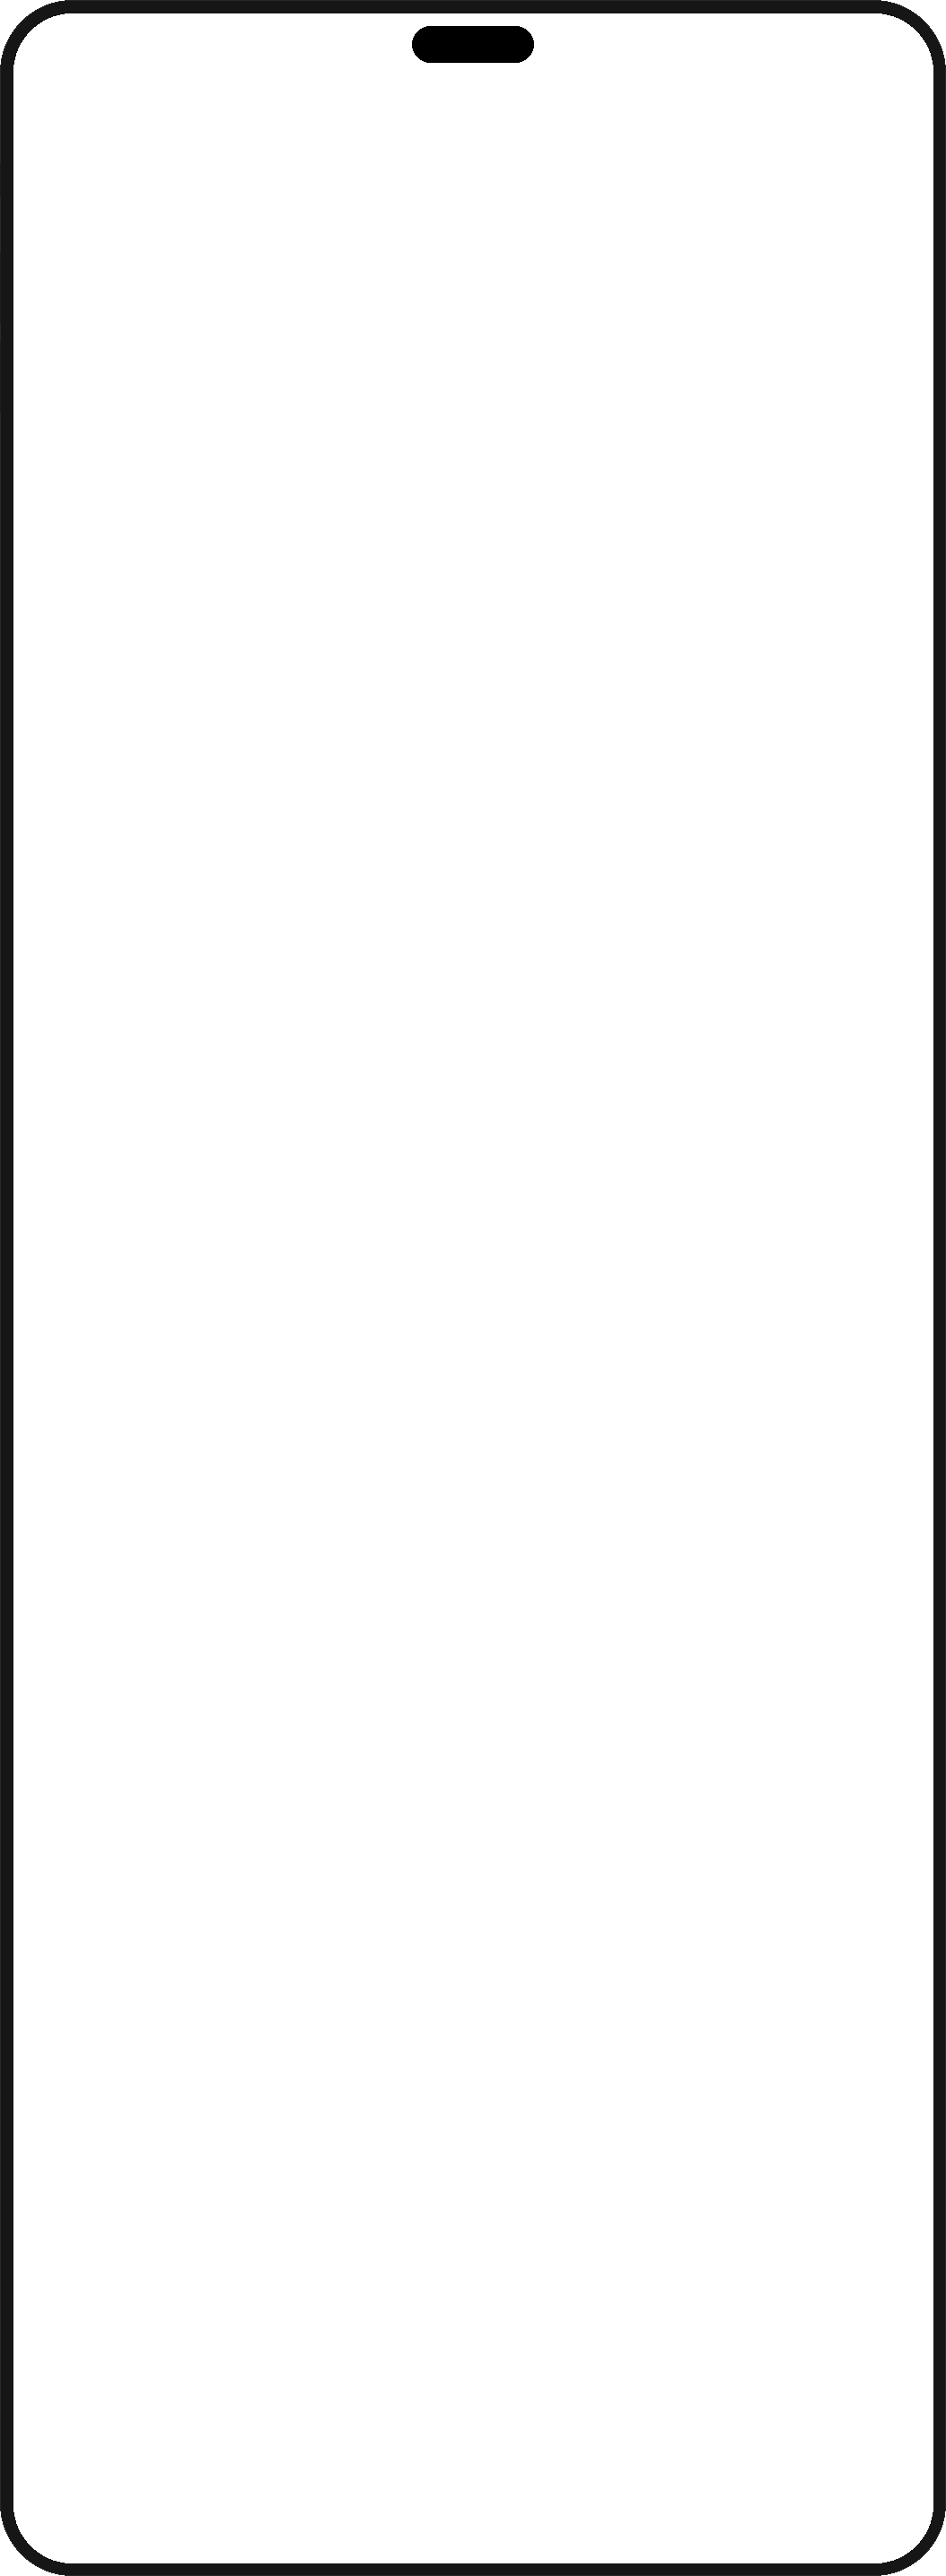
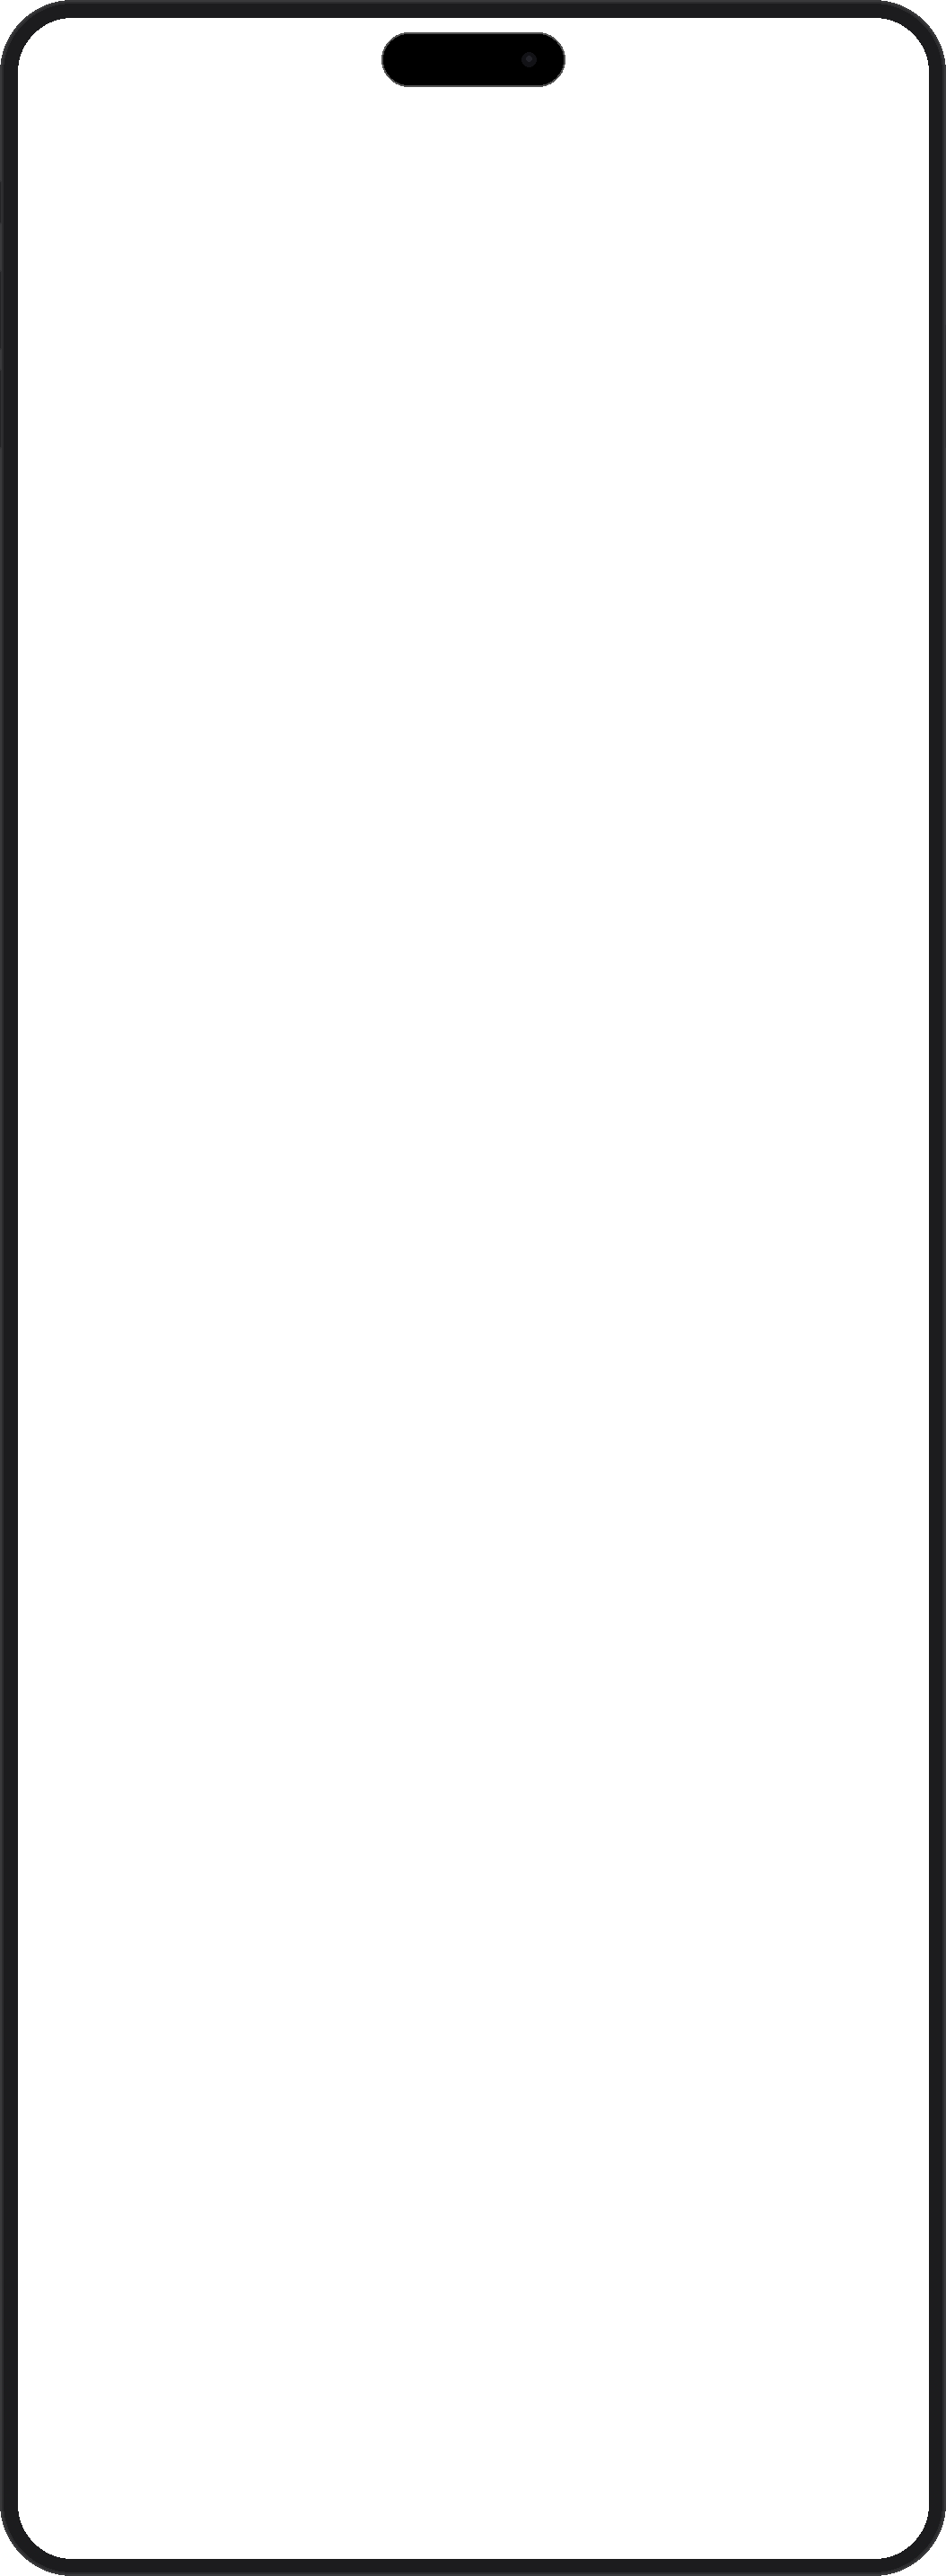
Improve device frames and add font installation to README
- iPhone frame: thicker bezel (20px), 3-layer titanium depth, larger
  Dynamic Island (200x56) with camera lens detail, metallic side buttons
- Android frame: 3-layer depth, subtle punch-hole ring, thicker bezel
- compose.py: updated bezel/corner values to match new frames
- README: added SF Pro Display Black font installation instructions
  with Apple developer fonts download link

diff --git a/generate_frame.py b/generate_frame.py
@@ -10,7 +10,7 @@ compose.py positions these dynamically based on text height.
 """
 
 import os
-from PIL import Image, ImageDraw, ImageChops
+from PIL import Image, ImageDraw, ImageChops, ImageFilter
 
 ASSETS_DIR = os.path.join(os.path.dirname(os.path.abspath(__file__)), "assets")
 
@@ -18,11 +18,11 @@ ASSETS_DIR = os.path.join(os.path.dirname(os.path.abspath(__file__)), "assets")
 IPHONE_W = 1054
 IPHONE_H = 2870
 IPHONE_CORNER_R = 80
-IPHONE_BEZEL = 15
-IPHONE_SCREEN_CORNER_R = 65
-IPHONE_DI_W = 135
-IPHONE_DI_H = 40
-IPHONE_DI_TOP = 14
+IPHONE_BEZEL = 20
+IPHONE_SCREEN_CORNER_R = 60
+IPHONE_DI_W = 200
+IPHONE_DI_H = 56
+IPHONE_DI_TOP = 18
 IPHONE_SCREEN_W = IPHONE_W - 2 * IPHONE_BEZEL
 IPHONE_SCREEN_H = IPHONE_H - 2 * IPHONE_BEZEL
 
@@ -30,10 +30,10 @@ IPHONE_SCREEN_H = IPHONE_H - 2 * IPHONE_BEZEL
 ANDROID_W = 900
 ANDROID_H = 1980
 ANDROID_CORNER_R = 55
-ANDROID_BEZEL = 12
-ANDROID_SCREEN_CORNER_R = 43
+ANDROID_BEZEL = 14
+ANDROID_SCREEN_CORNER_R = 41
 ANDROID_PUNCH_R = 16
-ANDROID_PUNCH_TOP = 18
+ANDROID_PUNCH_TOP = 20
 ANDROID_SCREEN_W = ANDROID_W - 2 * ANDROID_BEZEL
 ANDROID_SCREEN_H = ANDROID_H - 2 * ANDROID_BEZEL
 
@@ -43,19 +43,27 @@ def generate_iphone():
     frame = Image.new("RGBA", (IPHONE_W, IPHONE_H), (0, 0, 0, 0))
     fd = ImageDraw.Draw(frame)
 
-    # Device body — titanium-style outer shell
+    # ── Titanium outer shell — 3-layer depth ────────────────────────
+    # Outermost edge — subtle metallic highlight
     fd.rounded_rectangle(
         [0, 0, IPHONE_W - 1, IPHONE_H - 1],
         radius=IPHONE_CORNER_R,
-        fill=(42, 42, 42, 255),
+        fill=(58, 58, 60, 255),
     )
+    # Mid-layer — titanium body
     fd.rounded_rectangle(
-        [1, 1, IPHONE_W - 2, IPHONE_H - 2],
-        radius=IPHONE_CORNER_R - 1,
-        fill=(22, 22, 22, 255),
+        [2, 2, IPHONE_W - 3, IPHONE_H - 3],
+        radius=IPHONE_CORNER_R - 2,
+        fill=(44, 44, 46, 255),
+    )
+    # Inner edge — darker toward screen
+    fd.rounded_rectangle(
+        [4, 4, IPHONE_W - 5, IPHONE_H - 5],
+        radius=IPHONE_CORNER_R - 4,
+        fill=(28, 28, 30, 255),
     )
 
-    # Screen cutout (transparent)
+    # ── Screen cutout (transparent) ─────────────────────────────────
     screen_x = IPHONE_BEZEL
     screen_y = IPHONE_BEZEL
     cutout = Image.new("L", (IPHONE_W, IPHONE_H), 255)
@@ -66,26 +74,61 @@ def generate_iphone():
     )
     frame.putalpha(ImageChops.multiply(frame.getchannel("A"), cutout))
 
-    # Dynamic Island
+    # ── Dynamic Island — prominent pill with subtle depth ───────────
     di_x = (IPHONE_W - IPHONE_DI_W) // 2
     di_y = screen_y + IPHONE_DI_TOP
-    ImageDraw.Draw(frame).rounded_rectangle(
+    fd2 = ImageDraw.Draw(frame)
+
+    # Outer shadow ring for depth
+    fd2.rounded_rectangle(
+        [di_x - 2, di_y - 2, di_x + IPHONE_DI_W + 2, di_y + IPHONE_DI_H + 2],
+        radius=(IPHONE_DI_H + 4) // 2,
+        fill=(10, 10, 10, 180),
+    )
+    # Main Dynamic Island body
+    fd2.rounded_rectangle(
         [di_x, di_y, di_x + IPHONE_DI_W, di_y + IPHONE_DI_H],
         radius=IPHONE_DI_H // 2,
         fill=(0, 0, 0, 255),
     )
+    # Subtle front camera lens inside (right side of pill)
+    cam_r = 8
+    cam_x = di_x + IPHONE_DI_W - 38
+    cam_y = di_y + IPHONE_DI_H // 2
+    fd2.ellipse(
+        [cam_x - cam_r, cam_y - cam_r, cam_x + cam_r, cam_y + cam_r],
+        fill=(18, 18, 22, 255),
+    )
+    # Camera lens highlight
+    hl_r = 3
+    fd2.ellipse(
+        [cam_x - hl_r, cam_y - hl_r - 1, cam_x + hl_r, cam_y + hl_r - 1],
+        fill=(35, 35, 42, 255),
+    )
 
-    # Side buttons
-    btn_color = (30, 30, 30, 255)
-    fd2 = ImageDraw.Draw(frame)
-    # Power (right)
-    fd2.rounded_rectangle([IPHONE_W, 340, IPHONE_W + 4, 460], radius=2, fill=btn_color)
-    # Volume up (left)
-    fd2.rounded_rectangle([-4, 280, 0, 360], radius=2, fill=btn_color)
-    # Volume down (left)
-    fd2.rounded_rectangle([-4, 380, 0, 460], radius=2, fill=btn_color)
-    # Silent switch (left)
-    fd2.rounded_rectangle([-4, 180, 0, 220], radius=2, fill=btn_color)
+    # ── Side buttons — thicker with metallic look ───────────────────
+    btn_outer = (50, 50, 52, 255)
+    btn_inner = (36, 36, 38, 255)
+
+    # Power button (right side) — larger
+    fd2.rounded_rectangle(
+        [IPHONE_W - 1, 360, IPHONE_W + 5, 500], radius=3, fill=btn_outer
+    )
+    fd2.rounded_rectangle(
+        [IPHONE_W, 362, IPHONE_W + 4, 498], radius=2, fill=btn_inner
+    )
+
+    # Volume up (left side)
+    fd2.rounded_rectangle([-5, 300, 1, 390], radius=3, fill=btn_outer)
+    fd2.rounded_rectangle([-4, 302, 0, 388], radius=2, fill=btn_inner)
+
+    # Volume down (left side)
+    fd2.rounded_rectangle([-5, 410, 1, 500], radius=3, fill=btn_outer)
+    fd2.rounded_rectangle([-4, 412, 0, 498], radius=2, fill=btn_inner)
+
+    # Action button (left side, smaller)
+    fd2.rounded_rectangle([-5, 200, 1, 250], radius=3, fill=btn_outer)
+    fd2.rounded_rectangle([-4, 202, 0, 248], radius=2, fill=btn_inner)
 
     out = os.path.join(ASSETS_DIR, "iphone_frame.png")
     frame.save(out, "PNG")
@@ -98,19 +141,24 @@ def generate_android():
     frame = Image.new("RGBA", (ANDROID_W, ANDROID_H), (0, 0, 0, 0))
     fd = ImageDraw.Draw(frame)
 
-    # Device body — matte black style
+    # ── Device body — 3-layer depth ─────────────────────────────────
     fd.rounded_rectangle(
         [0, 0, ANDROID_W - 1, ANDROID_H - 1],
         radius=ANDROID_CORNER_R,
-        fill=(35, 35, 35, 255),
+        fill=(48, 48, 50, 255),
     )
     fd.rounded_rectangle(
-        [1, 1, ANDROID_W - 2, ANDROID_H - 2],
-        radius=ANDROID_CORNER_R - 1,
-        fill=(18, 18, 18, 255),
+        [2, 2, ANDROID_W - 3, ANDROID_H - 3],
+        radius=ANDROID_CORNER_R - 2,
+        fill=(32, 32, 34, 255),
+    )
+    fd.rounded_rectangle(
+        [3, 3, ANDROID_W - 4, ANDROID_H - 4],
+        radius=ANDROID_CORNER_R - 3,
+        fill=(20, 20, 22, 255),
     )
 
-    # Screen cutout (transparent)
+    # ── Screen cutout (transparent) ─────────────────────────────────
     screen_x = ANDROID_BEZEL
     screen_y = ANDROID_BEZEL
     cutout = Image.new("L", (ANDROID_W, ANDROID_H), 255)
@@ -121,24 +169,48 @@ def generate_android():
     )
     frame.putalpha(ImageChops.multiply(frame.getchannel("A"), cutout))
 
-    # Punch-hole camera (centered, near top)
+    # ── Punch-hole camera (centered, near top) ──────────────────────
     punch_x = ANDROID_W // 2
     punch_y = screen_y + ANDROID_PUNCH_TOP + ANDROID_PUNCH_R
     fd2 = ImageDraw.Draw(frame)
+    # Outer ring
+    fd2.ellipse(
+        [punch_x - ANDROID_PUNCH_R - 2, punch_y - ANDROID_PUNCH_R - 2,
+         punch_x + ANDROID_PUNCH_R + 2, punch_y + ANDROID_PUNCH_R + 2],
+        fill=(8, 8, 8, 200),
+    )
+    # Camera hole
     fd2.ellipse(
         [punch_x - ANDROID_PUNCH_R, punch_y - ANDROID_PUNCH_R,
          punch_x + ANDROID_PUNCH_R, punch_y + ANDROID_PUNCH_R],
         fill=(0, 0, 0, 255),
     )
 
-    # Side buttons
-    btn_color = (25, 25, 25, 255)
+    # ── Side buttons ────────────────────────────────────────────────
+    btn_outer = (42, 42, 44, 255)
+    btn_inner = (28, 28, 30, 255)
+
     # Power (right)
-    fd2.rounded_rectangle([ANDROID_W, 280, ANDROID_W + 3, 380], radius=2, fill=btn_color)
-    # Volume up (right, above power)
-    fd2.rounded_rectangle([ANDROID_W, 420, ANDROID_W + 3, 500], radius=2, fill=btn_color)
+    fd2.rounded_rectangle(
+        [ANDROID_W - 1, 300, ANDROID_W + 4, 400], radius=2, fill=btn_outer
+    )
+    fd2.rounded_rectangle(
+        [ANDROID_W, 302, ANDROID_W + 3, 398], radius=2, fill=btn_inner
+    )
+    # Volume up (right, below power)
+    fd2.rounded_rectangle(
+        [ANDROID_W - 1, 440, ANDROID_W + 4, 520], radius=2, fill=btn_outer
+    )
+    fd2.rounded_rectangle(
+        [ANDROID_W, 442, ANDROID_W + 3, 518], radius=2, fill=btn_inner
+    )
     # Volume down (right, below vol up)
-    fd2.rounded_rectangle([ANDROID_W, 520, ANDROID_W + 3, 600], radius=2, fill=btn_color)
+    fd2.rounded_rectangle(
+        [ANDROID_W - 1, 540, ANDROID_W + 4, 620], radius=2, fill=btn_outer
+    )
+    fd2.rounded_rectangle(
+        [ANDROID_W, 542, ANDROID_W + 3, 618], radius=2, fill=btn_inner
+    )
 
     out = os.path.join(ASSETS_DIR, "android_frame.png")
     frame.save(out, "PNG")

diff --git a/compose.py b/compose.py
@@ -28,8 +28,8 @@ PLATFORMS = {
         "canvas_w": 1320,
         "canvas_h": 2868,
         "device_w": 1054,
-        "bezel": 15,
-        "screen_corner_r": 65,
+        "bezel": 20,
+        "screen_corner_r": 60,
         "device_y": 740,
         "text_top": 200,
         "verb_size_max": 260,
@@ -41,8 +41,8 @@ PLATFORMS = {
         "canvas_w": 1080,
         "canvas_h": 1920,
         "device_w": 900,
-        "bezel": 12,
-        "screen_corner_r": 43,
+        "bezel": 14,
+        "screen_corner_r": 41,
         "device_y": 520,
         "text_top": 130,
         "verb_size_max": 200,

diff --git a/README.md b/README.md
@@ -23,6 +23,8 @@ Generate high-converting App Store & Google Play screenshots with device frames,
 
 ## Installation
 
+### 1. Clone and install dependencies
+
 ```bash
 # Clone the repo
 git clone https://github.com/abutun/claude-skill-aso-cosmicmeta-ss.git
@@ -30,8 +32,22 @@ cd claude-skill-aso-cosmicmeta-ss
 
 # Install the Python dependency
 pip3 install Pillow
+```
 
-# Generate the device frame assets (only needed once)
+### 2. Install the font
+
+The skill uses **SF Pro Display Black** for headline text. On macOS, download and install it from [Apple's developer fonts](https://developer.apple.com/fonts/). The expected path after installation is:
+
+```
+/Library/Fonts/SF-Pro-Display-Black.otf
+```
+
+If SF Pro is not available, the script falls back to other system fonts (Helvetica on macOS, DejaVu Sans on Linux), but SF Pro Display Black is strongly recommended for the best visual results.
+
+### 3. Generate device frames
+
+```bash
+# Only needed once (or after modifying frame constants)
 python3 generate_frame.py
 ```
 